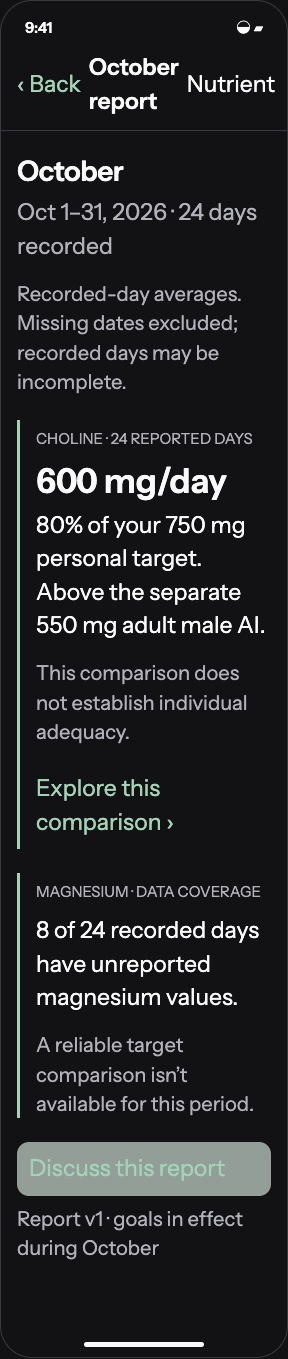
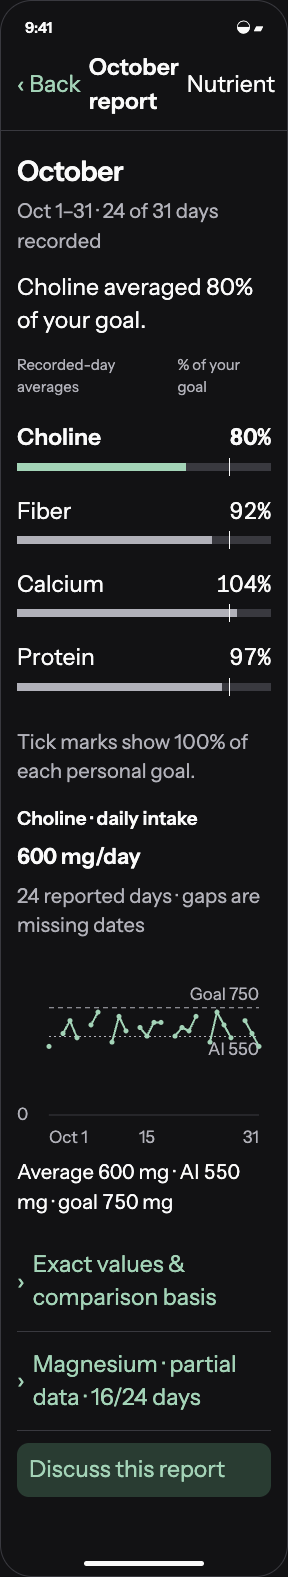
Make nutrition report study chart-first with optional text detail

diff --git a/design/2026-11-06/nutrition-reports/index.html b/design/2026-11-06/nutrition-reports/index.html
@@ -6,8 +6,10 @@ button,input,select,textarea{font:inherit;color:inherit}button,a,input,select,te
 .review{padding:32px;max-width:1160px;margin:auto;display:grid;grid-template-columns:minmax(220px,1fr) minmax(320px,390px);gap:64px;align-items:start}.review h1{font-size:34px;line-height:1.1;letter-spacing:-.8px;margin:16px 0}.review aside{max-width:460px}.eyebrow{color:var(--secondary);font-size:15px}.lede{font-size:20px}.tools{display:flex;flex-wrap:wrap;gap:8px;margin:24px 0}.tools button{border:1px solid var(--rule)}.steps{display:grid;gap:8px;margin-top:24px}.steps button{border-bottom:1px solid var(--rule);border-radius:0;padding:12px 0}.steps button[aria-current=step]{color:var(--fern);font-weight:600}.stage{color:var(--fern);font-weight:600}.note{font-size:15px;color:var(--secondary)}
 .phone{width:100%;background:var(--bg);border:1px solid var(--rule);border-radius:32px;overflow:hidden;min-height:780px;box-shadow:0 12px 44px #00000008}.status{display:flex;justify-content:space-between;padding:16px 24px 8px;font-size:15px;font-weight:600}.nativebar{display:flex;align-items:center;justify-content:space-between;gap:8px;padding:4px 16px 12px;border-bottom:1px solid var(--rule)}.nativebar strong{font-weight:600}.nativebar button{color:var(--fern);padding-inline:0;flex-shrink:0}.screen{padding:24px 16px;min-height:640px}.screen h2{font-size:28px;line-height:1.2;letter-spacing:-.5px;margin:0 0 8px}.screen h3{font-size:19px;margin:24px 0 8px;font-weight:600}.screen p{margin:8px 0 16px}.muted{color:var(--secondary)}.small{font-size:.88em}.mono{font-variant-numeric:tabular-nums}.user{background:var(--surface);border-radius:18px 18px 4px 18px;padding:16px;margin:0 0 24px 28px}.assistant{margin:0 0 24px}.assistant .label{font-size:15px;color:var(--secondary);margin-bottom:8px}.card{background:var(--surface);border-radius:18px;padding:16px;margin:16px 0}.card h3{margin-top:0}.row{display:flex;align-items:center;justify-content:space-between;gap:16px;padding:14px 0;border-bottom:1px solid var(--rule);min-height:52px}.row>*{min-width:0}.row>span:last-child{text-align:right}.row small{display:block;color:var(--secondary);font-size:15px}.navrow{width:100%;display:flex;align-items:center;justify-content:space-between;gap:16px;padding:16px 0;border-bottom:1px solid var(--rule);border-radius:0}.navrow span{min-width:0}.navrow small{display:block;font-size:15px;margin-top:4px}.chevron{color:var(--secondary);flex-shrink:0}.big{font-size:34px;line-height:1.15;font-weight:600;font-variant-numeric:tabular-nums;margin:20px 0 4px}.meter{height:7px;background:var(--rule);border-radius:4px;overflow:hidden;margin:16px 0}.meter i{display:block;height:100%;background:var(--fern)}.choices{display:flex;gap:8px;flex-wrap:wrap}.choices button{background:var(--surface);border:1px solid var(--rule)}label.field{display:block;margin:16px 0}label.field>span{display:block;margin-bottom:8px}input,select,textarea{background:var(--surface);border:1px solid var(--rule);border-radius:12px;padding:12px;width:100%;min-height:48px}textarea{resize:vertical;min-height:200px;line-height:1.5}.inline{display:flex;align-items:center;gap:12px}.inline input{width:auto}.receipt{padding:16px 0;border-block:1px solid var(--rule);margin:20px 0}.receipt strong{display:block}.alert{color:var(--error)}.safe{height:5px;width:120px;border-radius:4px;background:var(--ink);margin:16px auto 10px}.composer{display:flex;align-items:center;gap:8px;border-top:1px solid var(--rule);padding:12px 16px;background:var(--surface)}.composer input{border:0;background:var(--bg);font-size:17px}.composer button{color:var(--fern)}[role=status]{min-height:24px;color:var(--fern);font-size:15px}.timeline{border-left:2px solid var(--rule);padding-left:16px;margin:20px 0}.timeline>div{margin-bottom:24px}.pill{font-size:15px;color:var(--secondary)}.reportline{border-left:3px solid var(--fern);padding-left:16px;margin:24px 0}.reportline .big{margin:8px 0}.footer{padding:0 32px 24px;max-width:1160px;margin:auto;color:var(--secondary);font-size:15px}
 @media(max-width:760px){.review{display:flex;flex-direction:column;padding:20px 16px;gap:24px}.review aside{max-width:none}.phone{max-width:430px;align-self:center}.steps{display:flex;flex-wrap:wrap;gap:4px}.steps button{padding:8px}.review h1{font-size:28px}.lede{font-size:17px}.footer{padding:16px}}@media(prefers-reduced-motion:no-preference){button{transition:background .16s ease-out}}
+
+.chart-summary{display:grid;grid-template-columns:1fr auto;gap:8px;align-items:baseline;margin:20px 0 4px}.chart-summary h3{margin:0}.chart-summary strong{font-size:22px;font-variant-numeric:tabular-nums}.comparison{margin:12px 0 24px}.comparison button{display:grid;grid-template-columns:84px minmax(0,1fr) 44px;width:100%;gap:12px;align-items:center;padding:12px 0;border-radius:0;min-height:52px}.comparison .track{height:8px;background:var(--rule);position:relative}.comparison .track i{display:block;height:100%;background:var(--secondary)}.comparison .track:after{content:'';position:absolute;left:83.3333%;top:-5px;width:1px;height:18px;background:var(--ink)}.comparison button[aria-pressed=true]{font-weight:600}.comparison button[aria-pressed=true] .track i{background:var(--fern)}.comparison .percent{text-align:right;font-variant-numeric:tabular-nums}.comparison-label{display:flex;justify-content:space-between;font-size:15px;color:var(--secondary)}.chart{display:block;width:100%;height:auto;margin:8px 0 0}.chart text{fill:var(--secondary);font-size:15px;font-family:inherit}.chart .grid{stroke:var(--rule);stroke-width:1}.chart .goal{stroke:var(--secondary);stroke-width:1;stroke-dasharray:5 4}.chart .reference{stroke:var(--secondary);stroke-width:1;stroke-dasharray:2 3}.chart .series{stroke:var(--fern);stroke-width:2;fill:none}.chart .dot{fill:var(--fern)}.data-detail{border-bottom:1px solid var(--rule);padding:16px 0}.data-detail summary{min-height:44px;display:flex;align-items:center;cursor:pointer;color:var(--fern)}.data-detail summary:before{content:'›';margin-right:8px}.data-detail[open] summary:before{content:'⌄'}.data-detail p{font-size:15px}.values{width:100%;border-collapse:collapse;font-size:15px;font-variant-numeric:tabular-nums}.values td,.values th{text-align:left;padding:8px 4px;border-bottom:1px solid var(--rule)}.coverage-line{display:flex;gap:3px;margin:20px 0 8px}.coverage-line i{height:20px;flex:1;background:var(--rule)}.coverage-line i.logged{background:var(--secondary)}body.large .comparison button{grid-template-columns:minmax(0,1fr) 64px;gap:8px}body.large .comparison .track{grid-column:1/-1;grid-row:2}body.large .chart-summary{display:block}body.large .chart-summary strong{display:block;margin:8px 0}body.large .chart text{font-size:17px}
 </style></head><body>
-    <main class="review"><aside><div class="eyebrow">NUTRIENT / INTERACTION STUDY / NOV 6, 2026</div><h1>Useful reflection, on your terms</h1><p class="lede">A quiet archive under Trends. Give recorded data its context, and let the user choose whether reports ever interrupt them.</p><p class="stage">Later feature</p><div class="tools"><button onclick="toggleTheme()">Light / dark</button><button onclick="toggleText()">Larger text</button></div><nav class="steps" aria-label="Review scenario"><button onclick="go(0)" aria-current="false">Report archive</button><button onclick="go(1)" aria-current="false">Monthly report</button><button onclick="go(2)" aria-current="false">Opt-in controls</button><button onclick="go(3)" aria-current="false">Sparse-data report</button></nav><p class="note">Browser reference for a future native SwiftUI flow. Synthetic data. Changes stay in this page’s memory; no app data, tools or notifications are connected.</p><a href="https://github.com/kggreco11/nutrient/issues/3">Implementation issue #3 ↗</a></aside>
+    <main class="review"><aside><div class="eyebrow">NUTRIENT / INTERACTION STUDY / NOV 6, 2026</div><h1>Useful reflection, on your terms</h1><p class="lede">Charts carry the comparisons. A short takeaway leads; sources, methods and exact values open only when you want them.</p><p class="stage">Later feature</p><div class="tools"><button onclick="toggleTheme()">Light / dark</button><button onclick="toggleText()">Larger text</button></div><nav class="steps" aria-label="Review scenario"><button onclick="go(0)" aria-current="false">Report archive</button><button onclick="go(1)" aria-current="false">Monthly report</button><button onclick="go(2)" aria-current="false">Opt-in controls</button><button onclick="go(3)" aria-current="false">Sparse-data report</button></nav><p class="note">Browser reference for a future native SwiftUI flow. Synthetic data. Changes stay in this page’s memory; no app data, tools or notifications are connected.</p><a href="https://github.com/kggreco11/nutrient/issues/3">Implementation issue #3 ↗</a></aside>
     <section class="phone" aria-label="iPhone interaction mockup"><div class="status"><span>9:41</span><span aria-label="Connectivity and battery">◒ ▰</span></div><header class="nativebar"><button id="back" onclick="back()" aria-label="Previous study state">‹ Back</button><strong id="screenTitle"></strong><span>Nutrient</span></header><div id="screen" class="screen"></div><div id="status" role="status" aria-live="polite" style="padding:0 16px"></div><div class="safe" aria-hidden="true"></div></section></main><footer class="footer">Design review only · General education and tracking decisions remain separate · Native iPhone validation is required before shipping.</footer><script>
 const $=s=>document.querySelector(s);let view=0;const state={target:160,previous:160,draft:150,applied:false,reason:'',frequency:'Off',push:false,topic:true,reportSaved:{frequency:'Off',push:false,topic:true},prefs:'Keep answers concise.\nExplain research limitations and cite sources when I ask to go deeper.\nAsk one clarifying question at a time.',saved:'Keep answers concise.\nExplain research limitations and cite sources when I ask to go deeper.\nAsk one clarifying question at a time.',revision:1};
 const escape=s=>String(s).replace(/[&<>"']/g,c=>({'&':'&amp;','<':'&lt;','>':'&gt;','"':'&quot;',"'":'&#39;'}[c]));
@@ -23,12 +25,25 @@ function toggleText(){document.body.classList.toggle('large');}
 function back(){go(Math.max(0,view-1));}
 
 
+
+let selectedNutrient='choline';
+const nutrientsForReport={choline:{name:'Choline',unit:'mg',target:750,average:600,reference:550},fiber:{name:'Fiber',unit:'g',target:35,average:32.2},calcium:{name:'Calcium',unit:'mg',target:1000,average:1040},protein:{name:'Protein',unit:'g',target:160,average:155.2}};
+const absentDays=[2,6,9,13,18,23,28];
+// Synthetic recorded-day series: symmetric factors have exact mean 1.
+const factors=[.8,.95,1.1,.9,1.05,1.2,.85,1.15,.98,1.02,.92,1.08,1.08,.92,1.02,.98,1.15,.85,1.2,1.05,.9,1.1,.95,.8];
+function dailyValues(n){let i=0;return Array.from({length:31},(_,d)=>absentDays.includes(d+1)?null:n.average*factors[i++]);}
+function fmt(v){return Number(v.toFixed(1)).toLocaleString('en-US');}
+function monthlyReport(){const n=nutrientsForReport[selectedNutrient];return `<h2>October</h2><p class="muted small">Oct 1–31 · 24 of 31 days recorded</p><p>Choline averaged 80% of your goal.</p><div class="comparison-label"><span>Recorded-day averages</span><span>% of your goal</span></div><div class="comparison" aria-label="Nutrient comparisons with personal goals">${Object.entries(nutrientsForReport).map(([id,r])=>`<button aria-pressed="${id===selectedNutrient}" onclick="selectNutrient('${id}')" aria-label="${r.name}, ${Math.round(r.average/r.target*100)} percent of personal goal; show daily chart"><span>${r.name}</span><span class="track" aria-hidden="true"><i style="width:${r.average/r.target/1.2*100}%"></i></span><span class="percent">${Math.round(r.average/r.target*100)}%</span></button>`).join('')}</div><p class="small muted">Tick marks show 100% of each personal goal.</p><div class="chart-summary"><h3>${n.name} · daily intake</h3><strong>${fmt(n.average)} ${n.unit}/day</strong></div><p class="small muted">24 reported days · gaps are missing dates</p>${dailyChart(n)}<p id="chartReadout" class="small mono" aria-live="polite">${n.reference?`Average 600 mg · AI 550 mg · goal 750 mg`:`Average ${fmt(n.average)} ${n.unit} · goal ${n.target} ${n.unit}`}</p><details class="data-detail"><summary>Exact values & comparison basis</summary><p>Average over 24 recorded days; logs may be incomplete. Targets were unchanged this month. Personal goals are not diagnostic thresholds.${n.reference?' The 550 mg AI is the US adult male reference.':''}</p><table class="values"><thead><tr><th scope="col">October day</th><th scope="col">Recorded intake</th></tr></thead><tbody>${dailyValues(n).map((v,i)=>`<tr><td>${i+1}</td><td>${v===null?'No entries':fmt(v)+' '+n.unit}</td></tr>`).join('')}</tbody></table>${n.reference?'<a href="https://ods.od.nih.gov/factsheets/Choline-HealthProfessional/" target="_blank" rel="noopener">Reference source ↗</a>':''}</details><details class="data-detail"><summary>Magnesium · partial data · 16/24 days</summary><p>Eight recorded days contain entries with unreported magnesium. No target percentage is shown for this incomplete series.</p></details><button class="secondary full" onclick="reportChat()">Discuss this report</button>`;}
+function dailyChart(n){const w=Math.max(220,document.querySelector('.phone').clientWidth-32),left=32,right=12,top=26,bottom=160,max=n.target*1.25;const x=d=>left+(d-1)/30*(w-left-right);const y=v=>bottom-v/max*(bottom-top);let d='',open=false;const vals=dailyValues(n);vals.forEach((v,i)=>{if(v===null){open=false;return}d+=(open?' L':' M')+x(i+1).toFixed(1)+' '+y(v).toFixed(1);open=true;});return `<svg class="chart" viewBox="0 0 ${w} 194" role="img" aria-label="${n.name} daily recorded intake in ${n.unit} for October. Average ${fmt(n.average)} across 24 recorded days. Seven missing dates are gaps. Personal goal ${n.target}.${n.reference?' Adult male AI 550.':''}"><title>${n.name}: recorded daily intake</title><line class="grid" x1="${left}" y1="${bottom}" x2="${w-right}" y2="${bottom}"/><text x="0" y="${bottom+5}">0</text><line class="goal" x1="${left}" y1="${y(n.target)}" x2="${w-right}" y2="${y(n.target)}"/><text x="${w-right}" y="${y(n.target)-8}" text-anchor="end">Goal ${n.target}</text>${n.reference?`<line class="reference" x1="${left}" y1="${y(n.reference)}" x2="${w-right}" y2="${y(n.reference)}"/><text x="${w-right}" y="${y(n.reference)+19}" text-anchor="end">AI ${n.reference}</text>`:''}<path class="series" d="${d}"/>${vals.map((v,i)=>v===null?'':`<circle class="dot" cx="${x(i+1)}" cy="${y(v)}" r="2.5"/>`).join('')}<text x="${left}" y="188">Oct 1</text><text x="${x(15)}" y="188" text-anchor="middle">15</text><text x="${w-right}" y="188" text-anchor="end">31</text></svg>`;}
+function selectNutrient(id){selectedNutrient=id;render();announce(nutrientsForReport[id].name+' daily chart selected.');}
+window.addEventListener('resize',()=>{if(view===1)render()});
+
 const titles=['Reports','October report','Report preferences','October report'];
 const screens=[
 ()=>`<h2>Reports</h2><p class="muted">Trends · your recorded nutrition over time</p>${nav('October 2026',1,'24 of 31 days recorded · 2 observations')}${nav('September 2026',3,'5 of 30 days recorded · limited data')}<h3>On your terms</h3><p>Read a report when you want to. ${state.reportSaved.frequency==='Off'?'Scheduled reports and notifications are off.':'Scheduled reports: '+state.reportSaved.frequency+'. Notifications '+(state.reportSaved.push?'requested':'off')+'.'}</p>${nav('Report preferences',2,state.reportSaved.frequency+' · '+(state.reportSaved.push?'notifications requested':'notifications off'))}<p class="small muted">Stored in-app reports. No PDF required.</p>`,
-()=>`<h2>October</h2><p class="muted">Oct 1–31, 2026 · 24 days recorded</p><p class="small muted">Recorded-day averages. Missing dates excluded; recorded days may be incomplete.</p><div class="reportline"><span class="pill">CHOLINE · 24 REPORTED DAYS</span><div class="big">600 mg/day</div><p>80% of your 750 mg personal target. Above the separate 550 mg adult male AI.</p><p class="muted small">This comparison does not establish individual adequacy.</p><button class="link" onclick="reportDetail()">Explore this comparison ›</button></div><div class="reportline"><span class="pill">MAGNESIUM · DATA COVERAGE</span><p>8 of 24 recorded days have unreported magnesium values.</p><p class="muted small">A reliable target comparison isn’t available for this period.</p></div><button class="secondary full" onclick="reportChat()">Discuss this report</button><p class="small muted">Report v1 · goals in effect during October</p>`,
+()=>monthlyReport(),
 ()=>`<h2>Report preferences</h2><label class="field"><span>Generate reports</span><select id="frequency" onchange="state.frequency=this.value"><option ${state.frequency==='Off'?'selected':''}>Off</option><option ${state.frequency==='Weekly'?'selected':''}>Weekly</option><option ${state.frequency==='Monthly'?'selected':''}>Monthly</option></select></label><label class="inline field"><input type="checkbox" id="push" ${state.push?'checked':''} onchange="state.push=this.checked"><span>Notify me when a report is ready</span></label><p class="small muted">Optional. One notification per report. Device permission is requested only after you opt in.</p><label class="field"><span>Quiet hours</span><select><option>9 pm–9 am</option><option>10 pm–8 am</option></select></label><label class="inline field"><input type="checkbox" ${state.topic?'checked':''} onchange="state.topic=this.checked"><span>Include choline observations</span></label><button class="primary full" onclick="saveReports()">Save preferences</button><button class="link full" onclick="cancelReports()">Cancel</button><p class="small muted">No reminders between reports. Sparse-data reports don’t send shortfall notifications.</p>`,
-()=>`<h2>September</h2><p class="muted">Sep 1–30, 2026</p><div class="big">5 <span class="small">recorded days</span></div><h3>Limited data this month</h3><p>These entries don’t provide enough coverage for a monthly target comparison.</p><p>Missing days haven’t been counted as zero intake.</p><p class="muted">No shortfall notification was sent.</p>${nav('Back to Reports',0)}`
+()=>`<h2>September</h2><p class="muted">Sep 1–30, 2026 · 5 days recorded</p><div class="coverage-line" role="img" aria-label="5 of 30 days have entries; 25 have no entries">${Array.from({length:30},(_,i)=>`<i class="${[1,5,12,19,26].includes(i)?'logged':''}"></i>`).join('')}</div><p class="small muted">Solid: recorded · light: no entries</p><h3>Not enough data to compare targets</h3><p class="muted">Missing days aren’t zero intake.</p>${nav('Back to Reports',0)}`
 ];function cancelReports(){Object.assign(state,state.reportSaved);go(0);announce('Changes discarded.');}function saveReports(){if(state.frequency==='Off')state.push=false;state.reportSaved={frequency:state.frequency,push:state.push,topic:state.topic};go(0);$('.screen').insertAdjacentHTML('afterbegin',`<div class="receipt"><strong>Report preferences saved.</strong><span>${state.frequency}${state.push?' · notifications requested':' · notifications off'}</span></div>`);announce('Prototype only: no schedule or notification created.');}function reportDetail(){$('#screen').innerHTML=`<h2>Choline comparison</h2>${row('Recorded average','600 mg/day')}${row('Personal target','750 mg/day')}${row('US adult male AI','550 mg/day')}<p>Different baselines answer different questions. Being below a chosen goal does not establish deficiency.</p><a href="https://ods.od.nih.gov/factsheets/Choline-HealthProfessional/" target="_blank" rel="noopener">Read the reference ↗</a>${btn('Back to October report',1,'link full')}`;}
 function reportChat(){$('#screenTitle').textContent='Chat';$('#screen').innerHTML=`<p class="pill">CONTEXT · OCTOBER REPORT · 24/31 DAYS</p>`+reply(`<p>We can explore your October report. Would you like to understand the choline comparison or the missing magnesium data?</p><p class="muted small">Nothing has changed in your targets.</p>${btn('Back to report',1)}`);}
 

diff --git a/design/2026-11-06/nutrition-reports/README.md b/design/2026-11-06/nutrition-reports/README.md
@@ -16,9 +16,19 @@ Open `http://127.0.0.1:5198/design/2026-11-06/nutrition-reports/`.
 
 ## Design intent
 
-Useful reflection, on your terms. A quiet archive under Trends. Give recorded data its context, and let the user choose whether reports ever interrupt them.
+Chart-first reports with high information density and low reading burden. Start with a compact nutrient comparison and one selected daily series. Use one short takeaway; let charts carry the quantities and relationships. Explanations, sources, methods and exact values open on demand.
 
 Domain: recorded days, intake, portions, reference intakes, personal targets, evidence provenance, goal decisions. Palette: the existing Field background/surface/ink/secondary/rule/fern assets; food-scale neutrals with fern actions. Signature: a nutrient quantity accompanied by its exact comparison basis and data coverage. Avoided defaults: unsolicited coaching cards, a green ideal-intake band, and a new home notification feed. Use existing Instrument Sans, 17 pt-equivalent body, 4 pt spacing rhythm and at least 44 pt controls; source and personal-decision depth is navigational rather than decorative.
+
+## Report composition
+
+- Initial view: period and recorded-day count; one short takeaway; aligned nutrient comparisons on a shared personal-goal percentage scale; one selected nutrient's daily series.
+- Tap a nutrient row to change the daily chart. Show directly labeled goal/reference lines and units. Keep missing dates as actual gaps; never connect across missing dates or draw zeros.
+- Display unreported composition as a compact partial-data row, not a false low-intake chart. Recorded-day coverage does not imply complete food logging.
+- Place exact daily values, comparison methods, interpretation and source links behind disclosure. Do not duplicate every plotted number in narrative paragraphs.
+- Percentages derive from the same synthetic daily arrays shown in the exact-value table. Choline: 600/750 = 80%; fiber: 32.2/35 = 92%; calcium: 1,040/1,000 = 104%; protein: 155.2/160 = 97%. All targets are illustrative personal choices.
+- Sparse-data reports use a compact recorded/missing-date strip and one status sentence. No fabricated comparisons.
+- On larger text, comparison labels and marks stack; exact values remain available to assistive technology. Native implementation should use Swift Charts and provide native chart accessibility and exact-value navigation.
 
 ## Behavior
 
@@ -46,6 +56,8 @@ Build on bounded historical context and target history from chat-goals, and refe
 
 ## Acceptance criteria for implementation
 
+- [ ] The report is understandable from charts and direct labels with at most one short initial takeaway; prose details are optional.
+- [ ] All four nutrient selections update the daily series and exact-value table; missing dates break the line, and partial values cannot appear as zero or a complete percentage.
 - [ ] Off creates no jobs, model calls or pushes; notification denial still permits report reading/manual generation.
 - [ ] Sparse/partial fixtures yield data-quality copy, never zero-filled deficiency claims.
 - [ ] Choline custom-target example shows both 80% personal-target comparison and the distinct reference.

diff --git a/design/2026-11-06/nutrition-reports/validation.md b/design/2026-11-06/nutrition-reports/validation.md
@@ -6,8 +6,9 @@
 
 - Headless Google Chrome loaded all 4 selectable scenarios with zero JavaScript page errors.
 - 32 layout checks: every scenario at 390 px and 320 px, each with normal/larger text and light/dark appearance. Neither document nor screen content overflowed horizontally. Larger browser text is an approximation for review, not iOS Dynamic Type.
+- 32 additional chart-selection checks covered all four nutrients in each layout/appearance combination. Each series has exactly 24 reported values, 7 absent dates, 8 disconnected line segments and an accurate computed mean. Exact-value disclosure shows all 31 dates.
 - Local Instrument Sans loaded successfully from the app’s bundled font. Native Field light/dark colors guide the study.
-- Report generation defaults to Off. Selecting Monthly and saving displays a receipt. Report-to-chat carries the period and recorded-day context. The sparse-data state explicitly excludes missing dates. Notification settings are mock values and never invoke system permissions or scheduling.
+- Report generation defaults to Off. Cancel discards a draft frequency change; selecting Monthly and saving displays a receipt. Report-to-chat carries the period and recorded-day context. The sparse-data state explicitly excludes missing dates. Notification settings are mock values and never invoke system permissions or scheduling.
 - Captured a representative light-mode screen and a 320 px larger-text dark-mode screen. Reviewed the representative compositions; screenshots contain synthetic data only.
 - Inline JavaScript parsed/executed successfully. Git whitespace checks passed before commit. No runtime app, backend, diary, settings or recipe files changed.
 

diff --git a/.interface-design/system.md b/.interface-design/system.md
@@ -26,6 +26,12 @@ Spacing: 4 pt base. `FieldSpace`: tight 4, item 8, controls 12, inset 16, sectio
 
 Depth: surface tones and subtle rules. Reserve the main card for the progress summary; other home sections use spacing and headings. Rounded controls 12 pt, summary card 20 pt, recipe/chat surfaces 16–20 pt. Keep chrome quiet; use solid fills and purposeful SF Symbols.
 
+## Information density
+
+- Prefer compact, directly labeled graphs and charts for comparisons and changes over time. Let data carry the report; use at most one short takeaway on the initial report view instead of paragraphs restating chart values.
+- Reveal exact values, methods, reference explanations and research through selection or disclosure. Keep units, time range, comparison basis and recorded-day counts visible; missing or partial data must remain legible without opening fine print.
+- Increase useful information per screen through alignment and clear visual hierarchy, not smaller essential type, extra panels or more simultaneous charts. Provide an accessible exact-value alternative.
+
 ## Nutrition semantics
 
 Coverage is a score out of 100: mean of 31 capped nutrient percentages. It is not the fraction of targets met. Display the score and target-completion count separately; explain the scope in coverage details. Macros and calories are separate from the 31 targets.
